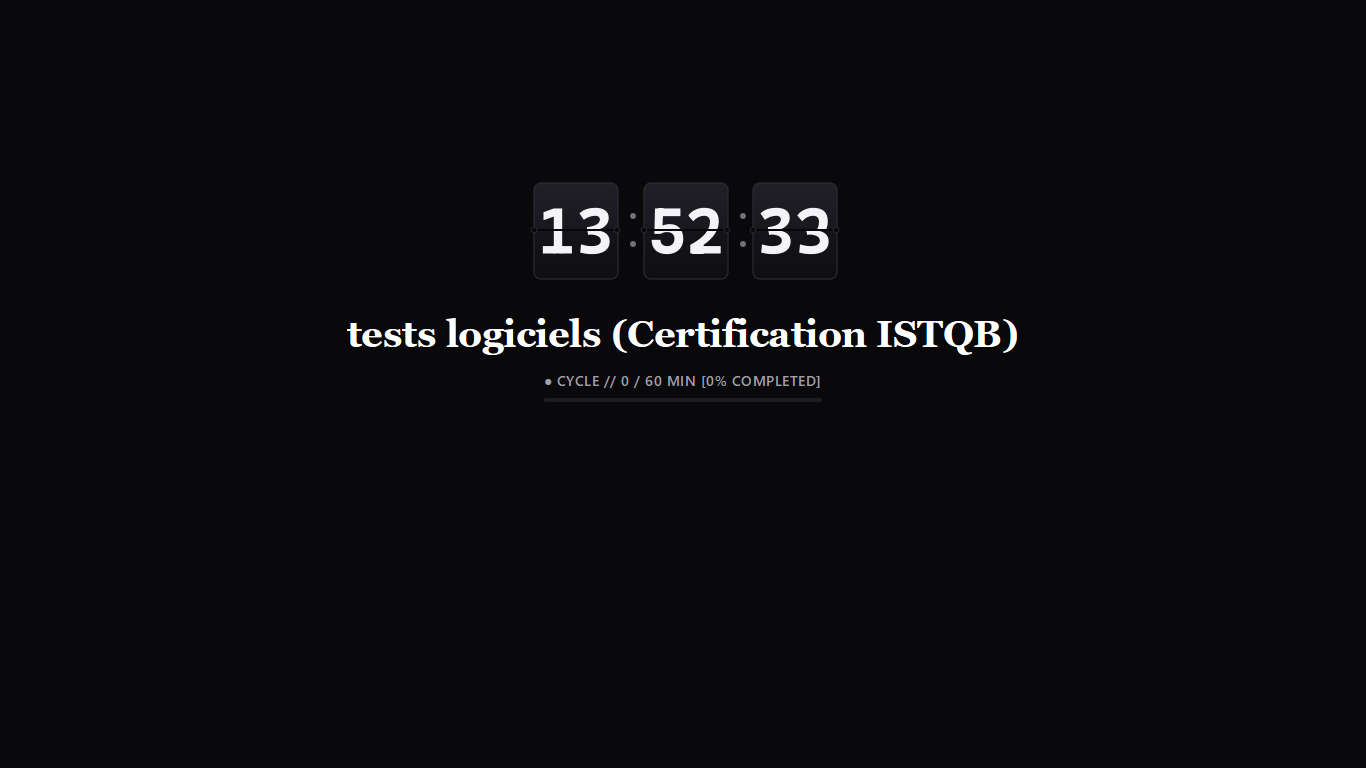
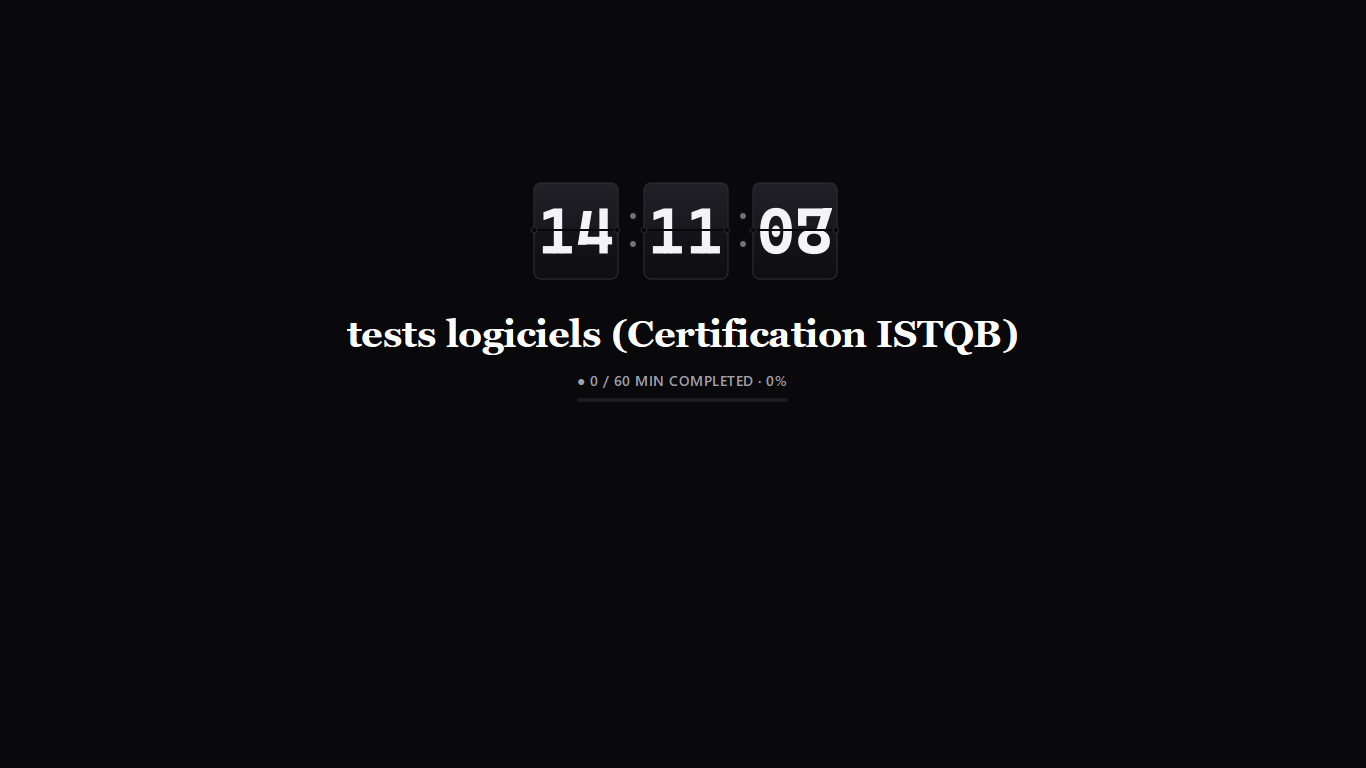
style(ui): remove redundant punctuation and bracket decorations for clean minimalism
- Eliminate artificial ASCII decorations (`//`, `[...]`, `(...)`) across all views and dialogs while preserving display serif typography.
- Clean dashboard date header, action buttons (`START FOCUS`, `25m`), and carousel status slides.
- Simplify weekly schedule grid titles, day column headers, format tags, room labels, and input placeholders.
- Streamline focus screen status badges (`● FOCUSING`, `⏸ PAUSED`) and keyboard shortcut hints.
- Clean dialog titles, subtitles, and radio options in Targets, Manual Log, and Customization dialogs.
- Refresh all screen captures in docs/screens and docs/currentScreens and document Milestone 6.9 in PROGRESS.md.

Changed region(s): [[0.3997, 0.25, 0.5227, 0.3438], [0.3997, 0.4688, 0.6149, 0.5], [0.5534, 0.25, 0.6149, 0.3438]]

diff --git a/src/study_station/ui/dashboard_widget.py b/src/study_station/ui/dashboard_widget.py
@@ -223,7 +223,7 @@ class SubjectDashboardWidget(QWidget):
         action_layout.setAlignment(Qt.AlignmentFlag.AlignCenter)
 
         # Primary Start Focus Button
-        self.btn_focus_15 = QPushButton("▶ START FOCUS  (Space)")
+        self.btn_focus_15 = QPushButton("START FOCUS")
         self.btn_focus_15.setStyleSheet(BUTTON_PRIMARY_STYLE)
         self.btn_focus_15.setCursor(Qt.CursorShape.PointingHandCursor)
         self.btn_focus_15.clicked.connect(lambda: self._on_start_focus(15))
@@ -259,7 +259,7 @@ class SubjectDashboardWidget(QWidget):
         self.refresh_dashboard()
 
     def _update_typography(self) -> None:
-        """Apply either Evangelion Matisse+HUD typography or Swiss Modern Minimal."""
+        """Apply either Evangelion Matisse display serif or Swiss Modern Minimal."""
         is_eva = getattr(self.settings, "typography_style", "eva") == "eva"
         if is_eva:
             # Matisse EB inspired editorial display serif with tight tracking
@@ -275,10 +275,10 @@ class SubjectDashboardWidget(QWidget):
                     color: #FF7700;
                 }
             """)
-            self.lbl_subject_hint.setText("▼ SELECT MISSION // SCHEDULE GRID")
-            self.lbl_subject_hint.setStyleSheet("color: #71717A; font-size: 11px; font-weight: 600; letter-spacing: 1px;")
-            self.btn_focus_15.setText("▶ ENGAGE FOCUS (Space)")
-            self.btn_focus_25.setText("[ 25M ]")
+            self.lbl_subject_hint.setText("Click to open schedule")
+            self.lbl_subject_hint.setStyleSheet("color: #71717A; font-size: 11px; font-weight: 500;")
+            self.btn_focus_15.setText("START FOCUS")
+            self.btn_focus_25.setText("25m")
         else:
             self.lbl_subject_name.setFont(get_modern_font("sans", 36, QFont.Weight.Bold))
             self.lbl_subject_name.setStyleSheet("""
@@ -292,9 +292,9 @@ class SubjectDashboardWidget(QWidget):
                     color: #38BDF8;
                 }
             """)
-            self.lbl_subject_hint.setText("▾ Click to open schedule")
+            self.lbl_subject_hint.setText("Click to open schedule")
             self.lbl_subject_hint.setStyleSheet("color: #52525B; font-size: 11px; font-weight: 500;")
-            self.btn_focus_15.setText("▶ START FOCUS (Space)")
+            self.btn_focus_15.setText("START FOCUS")
             self.btn_focus_25.setText("25m")
 
     def _create_top_bar(self) -> QWidget:
@@ -399,16 +399,12 @@ class SubjectDashboardWidget(QWidget):
 
     def refresh_dashboard(self) -> None:
         now = datetime.now()
-        is_eva = getattr(self.settings, "typography_style", "eva") == "eva"
-        if is_eva:
-            date_str = f"// {now.strftime('%A, %b %d').upper()}"
-        else:
-            date_str = now.strftime("%A, %b %d").upper()
+        date_str = now.strftime("%A, %b %d").upper()
         self.lbl_date.setText(date_str)
 
         if not self.engine:
             self.lbl_subject_name.setText("STUDY STATION")
-            self._carousel_slides = ["● STANDBY // READY TO ENGAGE" if is_eva else "● READY TO FOCUS"]
+            self._carousel_slides = ["● READY TO FOCUS"]
             self.lbl_carousel_text.setText(self._carousel_slides[0])
             return
 
@@ -433,7 +429,7 @@ class SubjectDashboardWidget(QWidget):
 
         if not summary:
             self.lbl_subject_name.setText("NO ACTIVE CLASSES")
-            self._carousel_slides = ["● STANDBY // NO ACTIVE SESSIONS" if is_eva else "● ADD SESSIONS IN SCHEDULE GRID"]
+            self._carousel_slides = ["● ADD SESSIONS IN SCHEDULE GRID"]
             self.lbl_carousel_text.setText(self._carousel_slides[0])
             return
 
@@ -450,20 +446,12 @@ class SubjectDashboardWidget(QWidget):
         self.lbl_status_badge.setText(f"{tgt} MIN")
         self.lbl_cycle_progress.setText(f"{comp} / {tgt} MIN")
 
-        if is_eva:
-            slide_progress = f"● CYCLE // {comp} / {tgt} MIN [{pct}% COMPLETED]"
-            clean_next = summary.next_session_text.replace("📅 ", "").replace("📅", "") if summary.next_session_text else "STANDBY"
-            slide_next = f"NEXT CLASS // {clean_next}".upper()
-            slide_format = f"FORMAT // {summary.core} · {summary.location or 'CLASS'}".upper()
-            if summary.is_current_class:
-                slide_progress = f"● IN SESSION NOW // {summary.core}".upper()
-        else:
-            slide_progress = f"● {comp} / {tgt} MIN COMPLETED · {pct}%"
-            clean_next = summary.next_session_text.replace("📅 ", "").replace("📅", "") if summary.next_session_text else "No upcoming session"
-            slide_next = f"NEXT CLASS · {clean_next}"
-            slide_format = f"FORMAT · {summary.core} · {summary.location or 'Class'}"
-            if summary.is_current_class:
-                slide_progress = f"● IN CLASS NOW · {summary.core}"
+        slide_progress = f"● {comp} / {tgt} MIN COMPLETED · {pct}%"
+        clean_next = summary.next_session_text.replace("📅 ", "").replace("📅", "") if summary.next_session_text else "No upcoming session"
+        slide_next = f"NEXT CLASS · {clean_next}"
+        slide_format = f"{summary.core} · {summary.location or 'Class'}"
+        if summary.is_current_class:
+            slide_progress = f"● IN CLASS NOW · {summary.core}"
 
         self._carousel_slides = [slide_progress, slide_next, slide_format]
         self._carousel_index = 0

diff --git a/src/study_station/ui/schedule_screen_widget.py b/src/study_station/ui/schedule_screen_widget.py
@@ -101,7 +101,7 @@ class ClassGridCard(QPushButton):
         header_row = QHBoxLayout()
         header_row.setContentsMargins(0, 0, 0, 0)
 
-        lbl_core = QLabel(f"[{core_type}]")
+        lbl_core = QLabel(core_type)
         lbl_core.setStyleSheet(f"""
             background-color: {bg_badge};
             color: {fg_badge};
@@ -113,13 +113,13 @@ class ClassGridCard(QPushButton):
         header_row.addWidget(lbl_core)
 
         if is_current:
-            lbl_now = QLabel("● ACTIVE")
-            lbl_now.setStyleSheet("color: #10B981; font-size: 10px; font-weight: 700; letter-spacing: 1px;")
+            lbl_now = QLabel("● NOW")
+            lbl_now.setStyleSheet("color: #10B981; font-size: 10px; font-weight: 700;")
             header_row.addWidget(lbl_now)
 
         header_row.addStretch()
 
-        lbl_room = QLabel(f"[{room}]")
+        lbl_room = QLabel(room)
         lbl_room.setStyleSheet("color: #71717A; font-size: 10px; font-weight: 600;")
         header_row.addWidget(lbl_room)
         layout.addLayout(header_row)
@@ -199,19 +199,19 @@ class ScheduleScreenWidget(QWidget):
 
         title_col = QVBoxLayout()
         title_col.setSpacing(2)
-        lbl_title = QLabel("WEEKLY SCHEDULE // OPERATION GRID")
-        lbl_title.setStyleSheet("color: #FFFFFF; font-size: 15px; font-weight: 800; letter-spacing: 1.5px;")
+        lbl_title = QLabel("WEEKLY SCHEDULE")
+        lbl_title.setStyleSheet("color: #FFFFFF; font-size: 16px; font-weight: 800; letter-spacing: 1.5px;")
         title_col.addWidget(lbl_title)
 
-        lbl_sub = QLabel("SELECT CLASS BLOCK TO ENGAGE SUBJECT · ESC TO RETURN")
-        lbl_sub.setStyleSheet("color: #71717A; font-size: 11px; font-weight: 600; letter-spacing: 0.5px;")
+        lbl_sub = QLabel("Click any class block to set active subject · Press Esc to return")
+        lbl_sub.setStyleSheet("color: #71717A; font-size: 12px;")
         title_col.addWidget(lbl_sub)
         header.addLayout(title_col)
 
         header.addStretch()
 
-        # View Mode Toggle: [ ▦ Grid View | ✏ Edit Classes ]
-        self.btn_mode_grid = QPushButton("▦ Grid View")
+        # View Mode Toggle: [ Grid View | Edit Classes ]
+        self.btn_mode_grid = QPushButton("Grid View")
         self.btn_mode_grid.setCursor(Qt.CursorShape.PointingHandCursor)
         self.btn_mode_grid.setStyleSheet("""
             QPushButton {
@@ -227,14 +227,14 @@ class ScheduleScreenWidget(QWidget):
         self.btn_mode_grid.clicked.connect(lambda: self._set_view_mode(0))
         header.addWidget(self.btn_mode_grid)
 
-        self.btn_mode_edit = QPushButton("✏ Edit Classes")
+        self.btn_mode_edit = QPushButton("Edit Classes")
         self.btn_mode_edit.setCursor(Qt.CursorShape.PointingHandCursor)
         self.btn_mode_edit.setStyleSheet(BUTTON_NAV_STYLE)
         self.btn_mode_edit.clicked.connect(lambda: self._set_view_mode(1))
         header.addWidget(self.btn_mode_edit)
 
         # Original PDF Button
-        btn_pdf = QPushButton("📄 Original PDF")
+        btn_pdf = QPushButton("Original PDF")
         btn_pdf.setStyleSheet(BUTTON_NAV_STYLE)
         btn_pdf.setCursor(Qt.CursorShape.PointingHandCursor)
         btn_pdf.clicked.connect(self._open_original_doc)
@@ -307,10 +307,10 @@ class ScheduleScreenWidget(QWidget):
                 w.setParent(None)
                 w.deleteLater()
 
-        # Corner: TIME // SLOT
-        lbl_corner = QLabel("TIME // SLOT")
+        # Corner: TIME
+        lbl_corner = QLabel("TIME")
         lbl_corner.setAlignment(Qt.AlignmentFlag.AlignCenter)
-        lbl_corner.setStyleSheet("color: #52525B; font-size: 10px; font-weight: 800; letter-spacing: 1px;")
+        lbl_corner.setStyleSheet("color: #52525B; font-size: 11px; font-weight: 800; letter-spacing: 1px;")
         self.grid_layout.addWidget(lbl_corner, 0, 0)
 
         # Day Headers (Col 1..6)
@@ -326,9 +326,9 @@ class ScheduleScreenWidget(QWidget):
             day_box_layout.setContentsMargins(2, 2, 2, 2)
             day_box_layout.setSpacing(0)
 
-            lbl_day = QLabel(f"// {day_code.upper()}")
+            lbl_day = QLabel(day_code.upper())
             lbl_day.setAlignment(Qt.AlignmentFlag.AlignCenter)
-            lbl_day.setStyleSheet(f"{today_color}; font-size: 12px; font-weight: 800; letter-spacing: 1px;")
+            lbl_day.setStyleSheet(f"{today_color}; font-size: 13px; font-weight: 800;")
             day_box_layout.addWidget(lbl_day)
 
             self.grid_layout.addWidget(day_box, 0, col_idx)
@@ -430,12 +430,12 @@ class ScheduleScreenWidget(QWidget):
         bar_layout.addWidget(self.cmb_day)
 
         self.txt_start = QLineEdit()
-        self.txt_start.setPlaceholderText("Start (08:00)")
+        self.txt_start.setPlaceholderText("08:00")
         self.txt_start.setFixedWidth(90)
         bar_layout.addWidget(self.txt_start)
 
         self.txt_end = QLineEdit()
-        self.txt_end.setPlaceholderText("End (09:30)")
+        self.txt_end.setPlaceholderText("09:30")
         self.txt_end.setFixedWidth(90)
         bar_layout.addWidget(self.txt_end)
 

diff --git a/src/study_station/ui/focus_widget.py b/src/study_station/ui/focus_widget.py
@@ -74,8 +74,8 @@ class FocusWidget(QWidget):
         self.btn_end.setStyleSheet(BUTTON_DANGER_STYLE)
         self.btn_end.setText("END SESSION")
         if self.lbl_shortcuts_hint:
-            self.lbl_shortcuts_hint.setText("SPACE // PAUSE · [+] // +5M · ESC // ABORT")
-            self.lbl_shortcuts_hint.setStyleSheet("color: #71717A; font-size: 11px; font-weight: 600; letter-spacing: 1px;")
+            self.lbl_shortcuts_hint.setText("Space to pause · +5m · Esc to end")
+            self.lbl_shortcuts_hint.setStyleSheet("color: #71717A; font-size: 11px; font-weight: 500;")
 
         # Connect controls
         self.btn_pause.clicked.connect(self._on_pause_clicked)
@@ -126,22 +126,22 @@ class FocusWidget(QWidget):
         clean_name = ScheduleEngine.clean_subject_name(subject_name)
         self.lbl_subject.setText(clean_name.upper())
         self.lbl_subject.setFont(get_modern_font("eva_display", 26, QFont.Weight.Bold))
-        self.lbl_subject.setStyleSheet("color: #FFFFFF; letter-spacing: 1px;")
+        self.lbl_subject.setStyleSheet("color: #FFFFFF; letter-spacing: 0.5px;")
 
-        self.lbl_state.setText("● ACTIVE // FOCUSING")
+        self.lbl_state.setText("● FOCUSING")
         self.lbl_state.setStyleSheet("""
             background-color: #064E3B;
             color: #34D399;
             font-size: 11px;
             font-weight: 700;
-            letter-spacing: 2px;
+            letter-spacing: 1.5px;
             padding: 4px 14px;
             border-radius: 10px;
         """)
         self.btn_pause.setText("Pause")
 
         if cycle_info:
-            self.lbl_cycle.setText(f"{cycle_info} // CYCLE TARGET")
+            self.lbl_cycle.setText(cycle_info)
         else:
             self.lbl_cycle.setText("")
 
@@ -169,25 +169,25 @@ class FocusWidget(QWidget):
             self.progress_bar.setValue(min(100, max(0, progress_pct)))
 
         if snap.is_paused:
-            self.lbl_state.setText("⏸ SUSPENDED // PAUSED")
+            self.lbl_state.setText("⏸ PAUSED")
             self.lbl_state.setStyleSheet("""
                 background-color: #38240D;
                 color: #FBBF24;
                 font-size: 11px;
                 font-weight: 700;
-                letter-spacing: 2px;
+                letter-spacing: 1.5px;
                 padding: 4px 14px;
                 border-radius: 10px;
             """)
             self.btn_pause.setText("Resume")
         else:
-            self.lbl_state.setText("● ACTIVE // FOCUSING")
+            self.lbl_state.setText("● FOCUSING")
             self.lbl_state.setStyleSheet("""
                 background-color: #064E3B;
                 color: #34D399;
                 font-size: 11px;
                 font-weight: 700;
-                letter-spacing: 2px;
+                letter-spacing: 1.5px;
                 padding: 4px 14px;
                 border-radius: 10px;
             """)

diff --git a/src/study_station/ui/customization_dialog.py b/src/study_station/ui/customization_dialog.py
@@ -126,8 +126,8 @@ class CustomizationDialog(QDialog):
         content_layout.addWidget(sec1_lbl)
 
         time_layout = QHBoxLayout()
-        self.rb_24h = QRadioButton("24-Hour (21:08)")
-        self.rb_12h = QRadioButton("12-Hour (9:08 PM)")
+        self.rb_24h = QRadioButton("24-Hour")
+        self.rb_12h = QRadioButton("12-Hour")
         if self._settings.use_24h:
             self.rb_24h.setChecked(True)
         else:
@@ -176,13 +176,13 @@ class CustomizationDialog(QDialog):
 
         current_typo = getattr(self._settings, "typography_style", "eva")
 
-        self.rb_typo_eva = QRadioButton("Evangelion / NERV HUD")
+        self.rb_typo_eva = QRadioButton("Evangelion Serif")
         self.rb_typo_eva.setChecked(current_typo == "eva")
         self.rb_typo_eva.toggled.connect(lambda c: self._on_typo_toggled(c, "eva"))
         typo_group.addButton(self.rb_typo_eva)
         typo_layout.addWidget(self.rb_typo_eva)
 
-        self.rb_typo_modern = QRadioButton("Swiss Modern Sans")
+        self.rb_typo_modern = QRadioButton("Modern Sans")
         self.rb_typo_modern.setChecked(current_typo == "modern")
         self.rb_typo_modern.toggled.connect(lambda c: self._on_typo_toggled(c, "modern"))
         typo_group.addButton(self.rb_typo_modern)

diff --git a/src/study_station/ui/manual_log_dialog.py b/src/study_station/ui/manual_log_dialog.py
@@ -66,8 +66,12 @@ class ManualLogDialog(QDialog):
         # Widget references
         self.lbl_title: QLabel = self.ui.findChild(QLabel, "lblTitle")
         if self.lbl_title:
-            self.lbl_title.setText("MANUAL LOG // OFFLINE SESSION")
-            self.lbl_title.setStyleSheet("color: #FFFFFF; font-size: 15px; font-weight: 800; letter-spacing: 1.5px;")
+            self.lbl_title.setText("LOG STUDY TIME")
+            self.lbl_title.setStyleSheet("color: #FFFFFF; font-size: 15px; font-weight: 700; letter-spacing: 1.5px;")
+
+        self.lbl_subtitle: QLabel = self.ui.findChild(QLabel, "lblSubtitle")
+        if self.lbl_subtitle:
+            self.lbl_subtitle.setText("Record review completed away from the screen.")
 
         self.cmb_subject: QComboBox = self.ui.findChild(QComboBox, "cmbSubject")
         self.spn_minutes: QSpinBox = self.ui.findChild(QSpinBox, "spnMinutes")

diff --git a/src/study_station/ui/targets_dialog.py b/src/study_station/ui/targets_dialog.py
@@ -70,8 +70,8 @@ class TargetsDialog(QDialog):
         # UI References
         self.lbl_title: QLabel = self.ui.findChild(QLabel, "lblTitle")
         if self.lbl_title:
-            self.lbl_title.setText("SUBJECT TARGETS // PROTOCOL CONFIG")
-            self.lbl_title.setStyleSheet("color: #FFFFFF; font-size: 15px; font-weight: 800; letter-spacing: 1.5px;")
+            self.lbl_title.setText("SUBJECT TARGETS")
+            self.lbl_title.setStyleSheet("color: #FFFFFF; font-size: 15px; font-weight: 700; letter-spacing: 1.5px;")
 
         self.scroll_layout: QVBoxLayout = self.ui.findChild(QVBoxLayout, "subjectsListLayout")
         self.btn_cancel: QPushButton = self.ui.findChild(QPushButton, "btnCancel")

diff --git a/PROGRESS.md b/PROGRESS.md
@@ -211,24 +211,46 @@ Study Station is a minimalist, schedule-aware study companion for Linux (Fedora 
 - [x] **Typographic Analysis & Dual Typeface Architecture:**
   - Studied `/docs/typography Evangelion.md` (Peiran Tan's study of Matisse EB display serif + tight-tracked Helvetica/grotesque telemetry).
   - Expanded `get_modern_font()` in `theme.py` with `eva_display` (high stroke contrast editorial serif with mechanical compression tracking at 96%) and `hud_telemetry` (tracked uppercase monospace/condensed grotesque).
-- [x] **Screen 1 (Ambient Station):**
-  - Subject title transformed into an imposing editorial statement using high-contrast display serif typography.
-  - Telemetry date header (`// THURSDAY, OCT 15`), mission selector hint (`▼ SELECT MISSION // SCHEDULE GRID`), and technical carousel slides (`● CYCLE // 0 / 60 MIN [0% COMPLETED]`, `NEXT CLASS // ...`).
-  - Action button: `▶ ENGAGE FOCUS (Space)` and duration badge `[ 25M ]`.
-- [x] **Screen 2 (Schedule Grid):**
-  - Header: `WEEKLY SCHEDULE // OPERATION GRID` with `SELECT CLASS BLOCK TO ENGAGE SUBJECT · ESC TO RETURN`.
-  - Corner header: `TIME // SLOT` with day columns `// LUN` through `// SAM`.
-  - Course format badges: `[TP]`, `[COURS]`, `[TD]`, `[CI]` with room brackets `[LAB 20]` and real-time `● ACTIVE` glowing highlight.
-- [x] **Screen 3 (Focus Screen):**
-  - Imposing display serif subject title, status badge (`● ACTIVE // FOCUSING` in emerald / `⏸ SUSPENDED // PAUSED` in amber), and telemetry shortcut cue (`SPACE // PAUSE · [+] // +5M · ESC // ABORT`).
 - [x] **Settings & Themes:**
   - Added new **`NERV Terminal`** theme (`#050507` void canvas, NERV emergency orange/amber `#FF7700` telemetry accents).
-  - Added a **`TYPOGRAPHY SYSTEM`** toggle in Settings allowing instant switching between `Evangelion / NERV HUD` and `Swiss Modern Sans`.
+  - Added a **`TYPOGRAPHY SYSTEM`** toggle in Settings allowing instant switching between `Evangelion Serif` and `Modern Sans`.
   - 2x2 theme grid displaying all 4 themes (`Classic Noir`, `Midnight Slate`, `Warm Espresso`, `NERV Terminal`).
-- [x] **Testing & Verification:**
-  - 24/24 unit tests passing cleanly.
-  - Screenshots updated in `docs/screens/` and verified visually with `view_file`.
 
+### Milestone 6.9: Minimalist Text & Noise Elimination Overhaul `[COMPLETED]`
+- [x] **Philosophy — Clean Typography Over ASCII Clutter:**
+  - Addressed user critique: removed useless punctuation noise (`//`, `[...]`, `(...)`) while retaining the high-impact editorial display serif typography.
+  - Achieved pure, distraction-free kiosk minimalism where letterforms carry visual weight instead of arbitrary punctuation.
+- [x] **Screen 1 (Ambient Main Dashboard):**
+  - Date header cleaned to pure `THURSDAY, OCT 15` (removed `//`).
+  - Action button cleaned to bold `START FOCUS` and duration pill `25m` (removed `▶ ENGAGE FOCUS (Space)` and `[ 25M ]`).
+  - Subtitle cleaned to `Click to open schedule` (removed `▼ SELECT MISSION // SCHEDULE GRID`).
+  - Rotating carousel slides cleaned of `//` and brackets:
+    - `● 0 / 60 MIN COMPLETED · 0%`
+    - `NEXT CLASS · Tomorrow at 08:00`
+    - `TP · Salle 5`
+- [x] **Screen 2 (Weekly Schedule Grid):**
+  - Header title: `WEEKLY SCHEDULE` (removed `// OPERATION GRID`).
+  - Mode toggle: `Grid View` | `Edit Classes` (removed unicode glyphs and brackets).
+  - PDF button: `Original PDF` (clean label).
+  - Corner header: `TIME` (removed `// SLOT`).
+  - Day columns: `LUN`, `MAR`, `MER`, `JEU`, `VEN`, `SAM` (removed `//`).
+  - Grid cards: format badges `TP`, `COURS`, `TD`, `CI` (removed `[TP]`, `[COURS]`); clean room labels `Lab 20` (removed `[Lab 20]`); active badge `● NOW` (removed `● ACTIVE`).
+  - Inline class editor: cleaned placeholder times to `08:00` and `09:30` (removed `(08:00)` and `(09:30)`).
+- [x] **Screen 3 (Focus Screen):**
+  - Status badge: `● FOCUSING` in emerald / `⏸ PAUSED` in amber (removed `ACTIVE //` and `SUSPENDED //`).
+  - Shortcuts hint: `Space to pause · +5m · Esc to end` (removed `SPACE // PAUSE · [+] // +5M · ESC // ABORT`).
+- [x] **Screen 4 (Subject Targets Dialog):**
+  - Dialog title: `SUBJECT TARGETS` (removed `// PROTOCOL CONFIG`).
+- [x] **Screen 5 (Manual Log Dialog):**
+  - Dialog title: `LOG STUDY TIME` (removed `// OFFLINE SESSION`).
+  - Subtitle: `Record review completed away from the screen.` (removed `(books, paper, library)`).
+- [x] **Screen 6 (Settings Dialog):**
+  - Time format options: clean `24-Hour` and `12-Hour` (removed `(21:08)` and `(9:08 PM)`).
+  - Typography options: `Evangelion Serif` and `Modern Sans` (removed `//` and `HUD`).
+- [x] **Verification & Test Suite:**
+  - 100% test pass rate: 24/24 unit tests passing.
+  - Automated screen captures updated and verified across `docs/screens/` and `docs/currentScreens/`:
+    `main_noHover.png`, `main_hover.png`, `focus.png`, `schedual.png`, `editSchedual.png`, `target.png`, `log.png`, `settings.png`.
 
 ---
 
